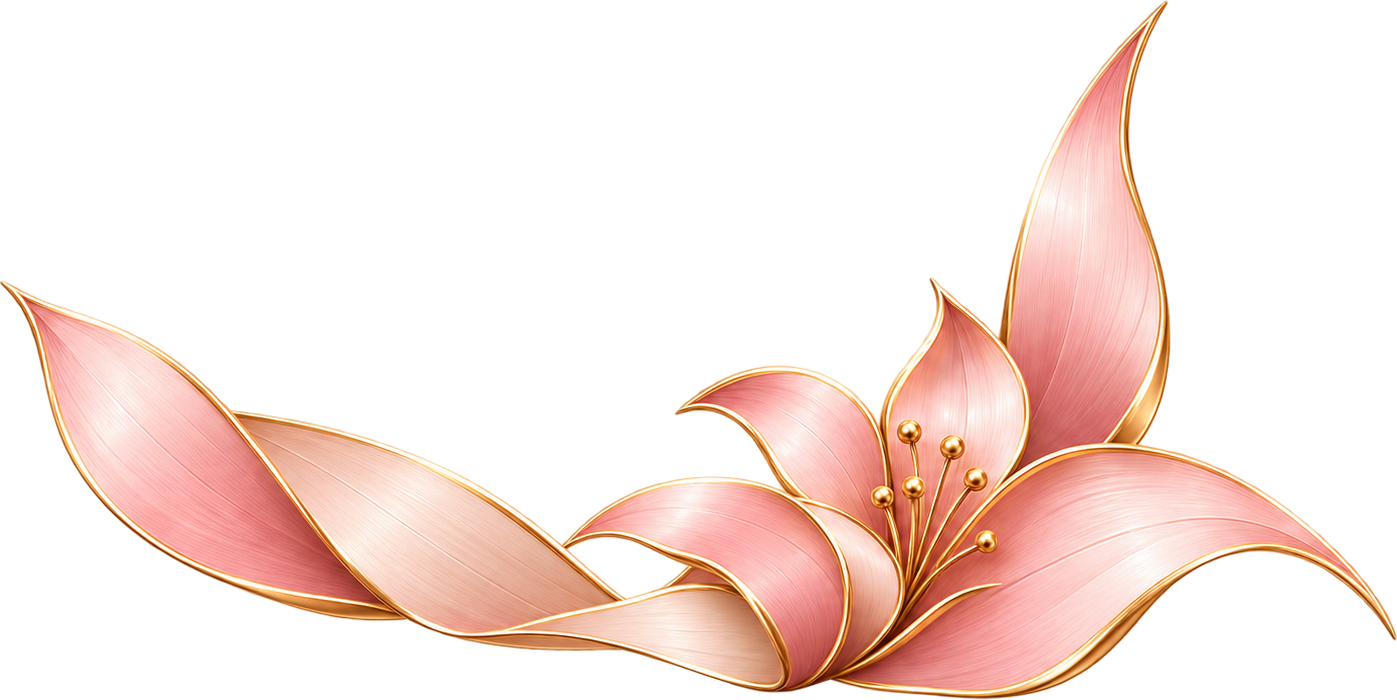
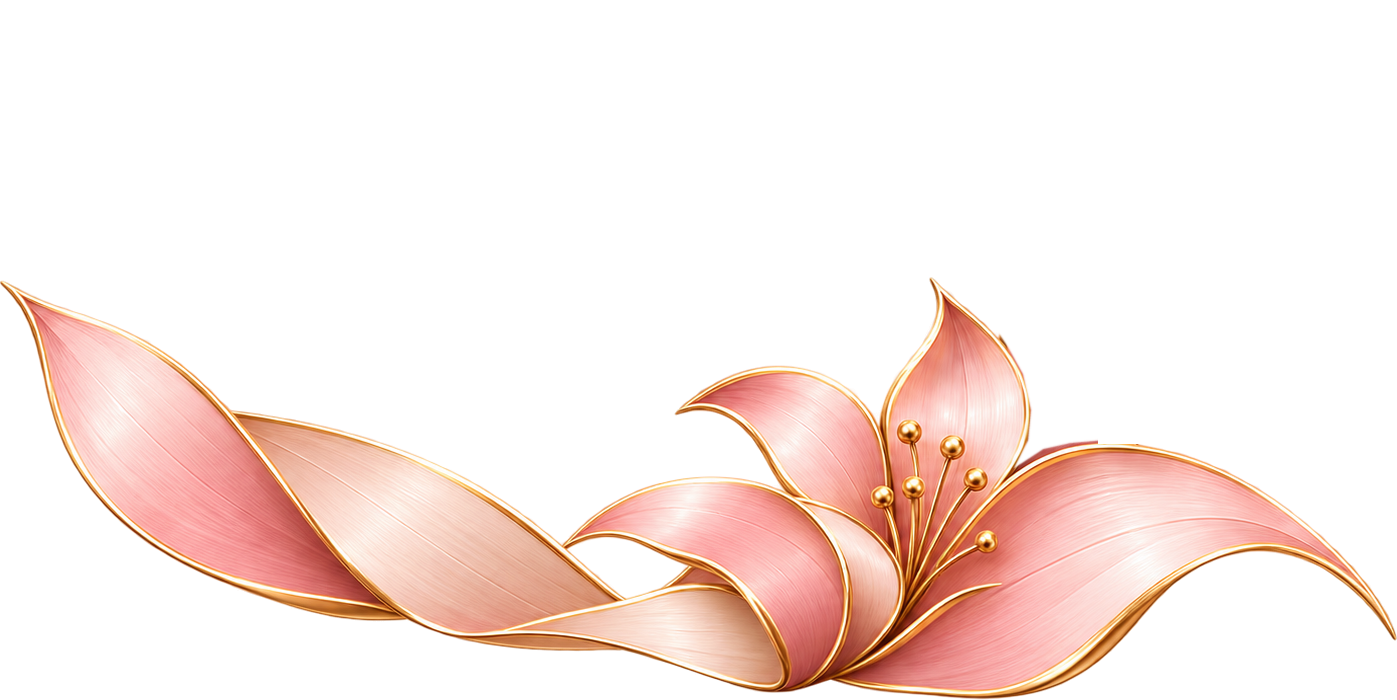
Home: remove the tall lily petal covering the lettering; phone browser bar colour follows the day/night rule

Changed region(s): [[0.7079, 0.0, 0.8618, 0.66]]

diff --git a/src/app/[locale]/layout.tsx b/src/app/[locale]/layout.tsx
@@ -61,7 +61,11 @@ export async function generateMetadata({ params }: { params: Promise<{ locale: s
   };
 }
 
-export const viewport: Viewport = { themeColor: "#f8eee8", width: "device-width", initialScale: 1, viewportFit: "cover" };
+export async function generateViewport(): Promise<Viewport> {
+  // phone browser bar follows the same day/night rule (Berlin time) as the page
+  const theme = resolveTheme(parseChoice((await cookies()).get(THEME_COOKIE)?.value));
+  return { themeColor: theme === "dark" ? "#1e1a1f" : "#f8eee8", width: "device-width", initialScale: 1, viewportFit: "cover" };
+}
 
 export default async function LocaleLayout({ children, params }: { children: React.ReactNode; params: Promise<{ locale: string }> }) {
   const { locale } = await params;

diff --git a/src/components/ThemeToggle.tsx b/src/components/ThemeToggle.tsx
@@ -30,7 +30,9 @@ export function ThemeToggle({ choice: initial, locale, withLabel = false }: { ch
 
   useEffect(() => {
     const apply = () => {
-      document.documentElement.dataset.theme = resolveTheme(choice);
+      const theme = resolveTheme(choice);
+      document.documentElement.dataset.theme = theme;
+      document.querySelector('meta[name="theme-color"]')?.setAttribute("content", theme === "dark" ? "#1e1a1f" : "#f8eee8");
     };
     apply();
     if (choice !== "auto") return;
